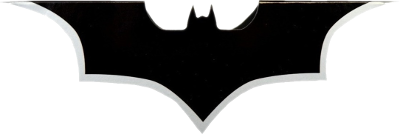
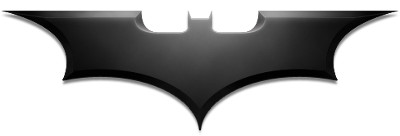
Ajustement taille titres mobile

diff --git a/CSS/style.css b/CSS/style.css
@@ -59,7 +59,7 @@ h2 {
 }
 
 .titres{
-    background-image: url("../Images/background-test-titres.png");
+    background-image: url("../Images/background_titres.png");
     width: 400px;
     height: 136px;
     margin: auto;
@@ -76,6 +76,19 @@ h2 {
     
 }
 
+@media screen and (max-width: 768px){
+    .titres{
+        background-image: url("../Images/background_titres_small.png");
+        width: 300px;
+        height: 102px;
+    }
+    h2{
+        top: 21px;
+        font-size: 18pt;
+    }
+}
+
+
 main {
     margin: var(--spacing-lg);
 }
@@ -87,9 +100,9 @@ section {
 }
 
 @media screen and (min-width: 768px){
-header, section {
-    height: 650px;
-}
+    header, section {
+        height: 650px;
+    }
 }
 
 

diff --git a/CSS/competences.css b/CSS/competences.css
@@ -35,6 +35,7 @@
     /* box-shadow: 0px 0px 5px 2px black; */
     box-shadow:inset 0 0 0 200px rgba(0,0,0,0.75);
     /* transition: 0.1s; */
+    border: 3px solid rgba(0,0,0,0.75);
 }
 
 .comp_description{
